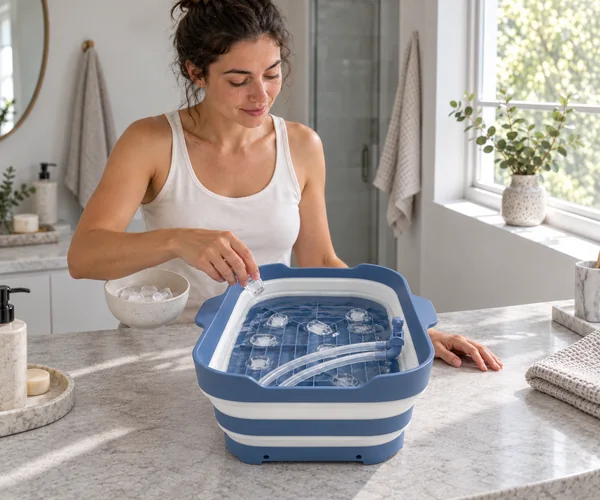
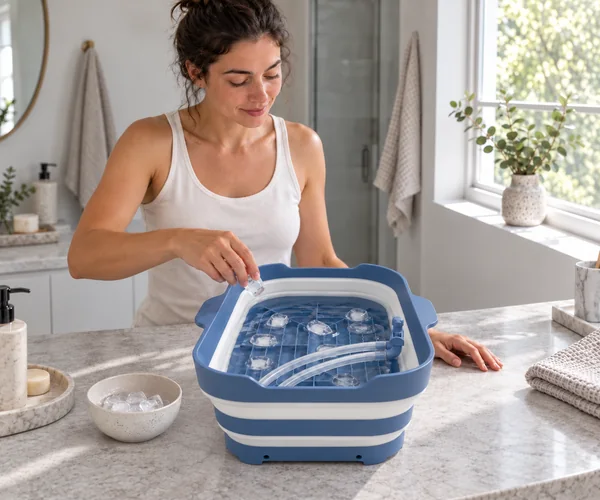
Correct scene support and keep immersion product scale consistent

Changed region(s): [[0.09, 0.72, 0.3, 0.9], [0.15, 0.54, 0.33, 0.66], [0.96, 0.66, 0.99, 0.72]]

diff --git a/beauty.html b/beauty.html
@@ -71,7 +71,7 @@
         </div><div class="rxsz-auth-hero__media rxsz-explorer" data-explorer role="region" aria-label="Explore RX SUBZERO" data-i18n-attr="aria-label:explorer.aria">
           <div class="rxsz-explorer__stage" data-explorer-stage role="group" tabindex="-1" aria-label="Product photographs" data-i18n-attr="aria-label:explorer.stage_aria">
             <figure class="rxsz-explorer__slide" data-explorer-slide id="beauty-view-0">
-              <img src="assets/img/beauty-hero-life-1200-people.webp" srcset="assets/img/beauty-hero-life-600-people.webp 600w, assets/img/beauty-hero-life-1200-people.webp 1200w" sizes="(max-width: 760px) calc(100vw - 40px), (max-width: 1320px) 44vw, 584px" width="1200" height="1000" alt="Woman preparing water and ice in the blue-and-white RX SUBZERO basin on a bathroom vanity." data-i18n-attr="alt:explorer.views.0.alt" decoding="async" draggable="false" fetchpriority="high">
+              <img src="assets/img/beauty-hero-life-1200-coherent.webp" srcset="assets/img/beauty-hero-life-600-coherent.webp 600w, assets/img/beauty-hero-life-1200-coherent.webp 1200w" sizes="(max-width: 760px) calc(100vw - 40px), (max-width: 1320px) 44vw, 584px" width="1200" height="1000" alt="Woman preparing water and ice in the blue-and-white RX SUBZERO basin on a bathroom vanity." data-i18n-attr="alt:explorer.views.0.alt" decoding="async" draggable="false" fetchpriority="high">
               <figcaption class="rxsz-explorer__caption" data-explorer-caption data-i18n="explorer.views.0.caption">Prepare water and ice to begin your facial ritual.</figcaption>
             </figure>
             <figure class="rxsz-explorer__slide" data-explorer-slide id="beauty-view-1" hidden inert>
@@ -91,7 +91,7 @@
           <div data-explorer-controls hidden>
             <div class="rxsz-explorer__toolbar"><p class="rxsz-explorer__hint" data-i18n="explorer.hint">Choose a view or swipe</p><button type="button" class="rxsz-explorer__arrow" data-explorer-prev data-i18n-attr="aria-label:explorer.previous" aria-label="Previous view"><svg viewBox="0 0 24 24" fill="none" stroke="currentColor" stroke-width="1.7" stroke-linecap="round" stroke-linejoin="round" aria-hidden="true"><path d="M14 6l-6 6 6 6"/></svg></button><span class="rxsz-explorer__count" data-explorer-count aria-hidden="true">1 / 4</span><button type="button" class="rxsz-explorer__arrow" data-explorer-next data-i18n-attr="aria-label:explorer.next" aria-label="Next view"><svg viewBox="0 0 24 24" fill="none" stroke="currentColor" stroke-width="1.7" stroke-linecap="round" stroke-linejoin="round" aria-hidden="true"><path d="M10 6l6 6-6 6"/></svg></button></div>
             <div class="rxsz-explorer__picker" data-explorer-picker role="group" aria-label="Choose a product view" data-i18n-attr="aria-label:explorer.picker_aria">
-              <button type="button" class="rxsz-explorer__choice" data-explorer-select="0" aria-pressed="true" aria-controls="beauty-view-0"><img src="assets/img/beauty-explorer-thumb-0-people.webp" width="160" height="133" alt="" loading="lazy" decoding="async"><span data-i18n="explorer.views.0.name">Your routine</span></button>
+              <button type="button" class="rxsz-explorer__choice" data-explorer-select="0" aria-pressed="true" aria-controls="beauty-view-0"><img src="assets/img/beauty-explorer-thumb-0-coherent.webp" width="160" height="133" alt="" loading="lazy" decoding="async"><span data-i18n="explorer.views.0.name">Your routine</span></button>
               <button type="button" class="rxsz-explorer__choice" data-explorer-select="1" aria-pressed="false" aria-controls="beauty-view-1"><img src="assets/img/beauty-explorer-thumb-1-geometry.webp" width="160" height="200" alt="" loading="lazy" decoding="async"><span data-i18n="explorer.views.1.name">Product</span></button>
               <button type="button" class="rxsz-explorer__choice" data-explorer-select="2" aria-pressed="false" aria-controls="beauty-view-2"><img src="assets/img/beauty-explorer-thumb-2-geometry.webp" width="160" height="133" alt="" loading="lazy" decoding="async"><span data-i18n="explorer.views.2.name">Inside</span></button>
               <button type="button" class="rxsz-explorer__choice" data-explorer-select="3" aria-pressed="false" aria-controls="beauty-view-3"><img src="assets/img/beauty-explorer-thumb-3-geometry.webp" width="160" height="133" alt="" loading="lazy" decoding="async"><span data-i18n="explorer.views.3.name">Folded</span></button>
@@ -157,7 +157,7 @@
           </article>
           <article class="rxsz-step rxsz-auth-step rxsz-reveal" data-editorial-side="right">
             <figure class="rxsz-step__media rxsz-auth-step__media">
-              <img src="assets/img/beauty-ritual-breathe-people.webp" width="1200" height="1000" loading="lazy" data-i18n-attr="alt:ritual.steps.1.img_alt" alt="Woman with her face immersed in the RX SUBZERO ice water, using the integrated tube’s mouthpiece." decoding="async">
+              <img src="assets/img/beauty-ritual-breathe-coherent.webp" width="1200" height="1000" loading="lazy" data-i18n-attr="alt:ritual.steps.1.img_alt" alt="Woman with her face immersed in the RX SUBZERO ice water, using the integrated tube’s mouthpiece." decoding="async">
             </figure>
             <div class="rxsz-auth-step__body">
               <span class="rxsz-step__num rxsz-auth-step__num">02</span>

diff --git a/health.html b/health.html
@@ -157,7 +157,7 @@
           </article>
           <article class="rxsz-step rxsz-auth-step rxsz-reveal" data-editorial-side="right">
             <figure class="rxsz-step__media rxsz-auth-step__media">
-              <img src="assets/img/health-ritual-breathe-people.webp" width="1200" height="1000" loading="lazy" data-i18n-attr="alt:ritual.steps.1.img_alt" alt="Man with his face immersed in the RX SUBZERO ice water, using the integrated tube’s mouthpiece." decoding="async">
+              <img src="assets/img/health-ritual-breathe-coherent.webp" width="1200" height="1000" loading="lazy" data-i18n-attr="alt:ritual.steps.1.img_alt" alt="Man with his face immersed in the RX SUBZERO ice water, using the integrated tube’s mouthpiece." decoding="async">
             </figure>
             <div class="rxsz-auth-step__body">
               <span class="rxsz-step__num rxsz-auth-step__num">02</span>

diff --git a/docs/2026-10-14-apoyo-y-escala.md b/docs/2026-10-14-apoyo-y-escala.md
@@ -1,0 +1,28 @@
+# Apoyo de objetos y escala del producto
+
+Se corrigieron tres escenas: preparación de Belleza y las dos inmersiones. El cuenco de hielo de la primera foto estaba suspendido detrás del mesón. Los primeros planos de inmersión agrandaban el recipiente y hacían que su planta pareciera cuadrada.
+
+El cuenco ahora apoya completamente sobre la piedra en primer plano, con base y sombra de contacto visibles. Las inmersiones tienen encuadre más abierto, mesón visible alrededor del producto, manos apoyadas junto a él y una proporción más coherente entre persona y recipiente. Se rechazó una primera corrección que estrechaba demasiado el producto y se recuperó su rectángulo moderado comparando la maestra y la foto superior original.
+
+## Referencias y límites
+
+Se conservaron las fotos reales `source-assets/references/product-front.png` y `product-top.png`, además de `source-assets/geometry/product-master.png`. Se compararon rebajes, asas de los lados largos, dos bandas blancas, rejilla, base y el único conjunto de dos tubos unidos. Las otras trece escenas principales mantuvieron sus archivos; se protegieron 29 archivos de imágenes y referencias mediante hashes.
+
+No se inventaron centímetros ni se afirma una validación de medidas de fábrica. La revisión comprueba proporciones visuales contra las fotos disponibles y el tamaño relativo de cabeza, manos y torso. Las dimensiones físicas exactas siguen pendientes de confirmación del propietario. Se conservó el mecanismo aprobado sin añadir entradas de aire, válvulas ni conexiones imaginadas.
+
+## Método y archivos
+
+Se usó **ImageGen integrado**, en modo `precise-object-edit`. Sharp solo recorta, reduce y codifica las imágenes finales.
+
+- Principales: `assets/img/beauty-hero-life-1200-coherent.webp`, `beauty-ritual-breathe-coherent.webp` y `health-ritual-breathe-coherent.webp`.
+- Derivados nuevos: `assets/img/beauty-hero-life-600-coherent.webp` y `beauty-explorer-thumb-0-coherent.webp`.
+- PNG seleccionados: `output/qa-scale/masters/`.
+- Versiones estrechas rechazadas: `output/qa-scale/rejected/`.
+- Prompts finales y procedencia: `source-assets/geometry/manifest.json`.
+- Exportación selectiva: `scripts/export-geometry.cjs --only=beauty:hero-life,beauty:ritual-breathe,health:ritual-breathe`.
+
+Los nombres nuevos evitan reutilizar recortes anteriores del navegador; los alias anteriores también se actualizaron. La imagen social de Shopify se obtiene del hero real de cada página, de modo que Belleza y Bienestar pueden usar revisiones distintas. Se corrigieron las descripciones antiguas del manifiesto que todavía exigían mantener el rostro sobre el agua, en contradicción con el uso aclarado por el propietario.
+
+## Verificación
+
+Pasaron las 56 pruebas de navegación, explorador, compra y paquete Shopify. La revisión adaptable cubrió 28 combinaciones de página, idioma y tamaño de pantalla, además de 28 composiciones del panel de compra y carrito. Se inspeccionaron también las inmersiones renderizadas en escritorio y móvil. Theme Check terminó con cero errores y doce avisos existentes del tema Dawn y las fuentes. Los 29 hashes de imágenes protegidas coinciden y el ZIP de Shopify corresponde al manifiesto actualizado.

diff --git a/source-assets/references/README.md b/source-assets/references/README.md
@@ -11,3 +11,5 @@ El propietario confirma que el tubo permanece unido. Estas fotos históricas lle
 El propietario aclaró el uso el 14 de octubre de 2026: agua con hielo, inmersión del rostro y boquilla del tubo integrado para respirar. Las escenas de uso deben representar ese gesto, con un solo conjunto de dos tubos y una boquilla. No sustituirlo por una persona bebiendo o simplemente acercándose al recipiente. La imagen editorial no demuestra por sí sola el recorrido interno del aire; no inventar entradas, válvulas ni accesorios para explicarlo.
 
 Prompts y exportaciones revisadas: `../geometry/manifest.json`. La imagen maestra del recipiente es una edición generada con ImageGen integrado, basada en estas dos fotos, conservando el tubo azul de la versión anterior de las páginas.
+
+Revisar también la física de la escena: cada recipiente auxiliar debe tener una base apoyada y sombra de contacto visibles, o una mano sujetándolo de forma inequívoca. Comparar tamaño relativo al rostro, manos y torso entre escenas; evitar primeros planos que conviertan el recipiente en una tina gigante. La corrección debe conservar el rectángulo moderado del molde, sin comprimir el ancho ni estirar el largo por separado. Las fotos sirven para comprobar coherencia visual; no sustituyen medidas físicas de fábrica.
